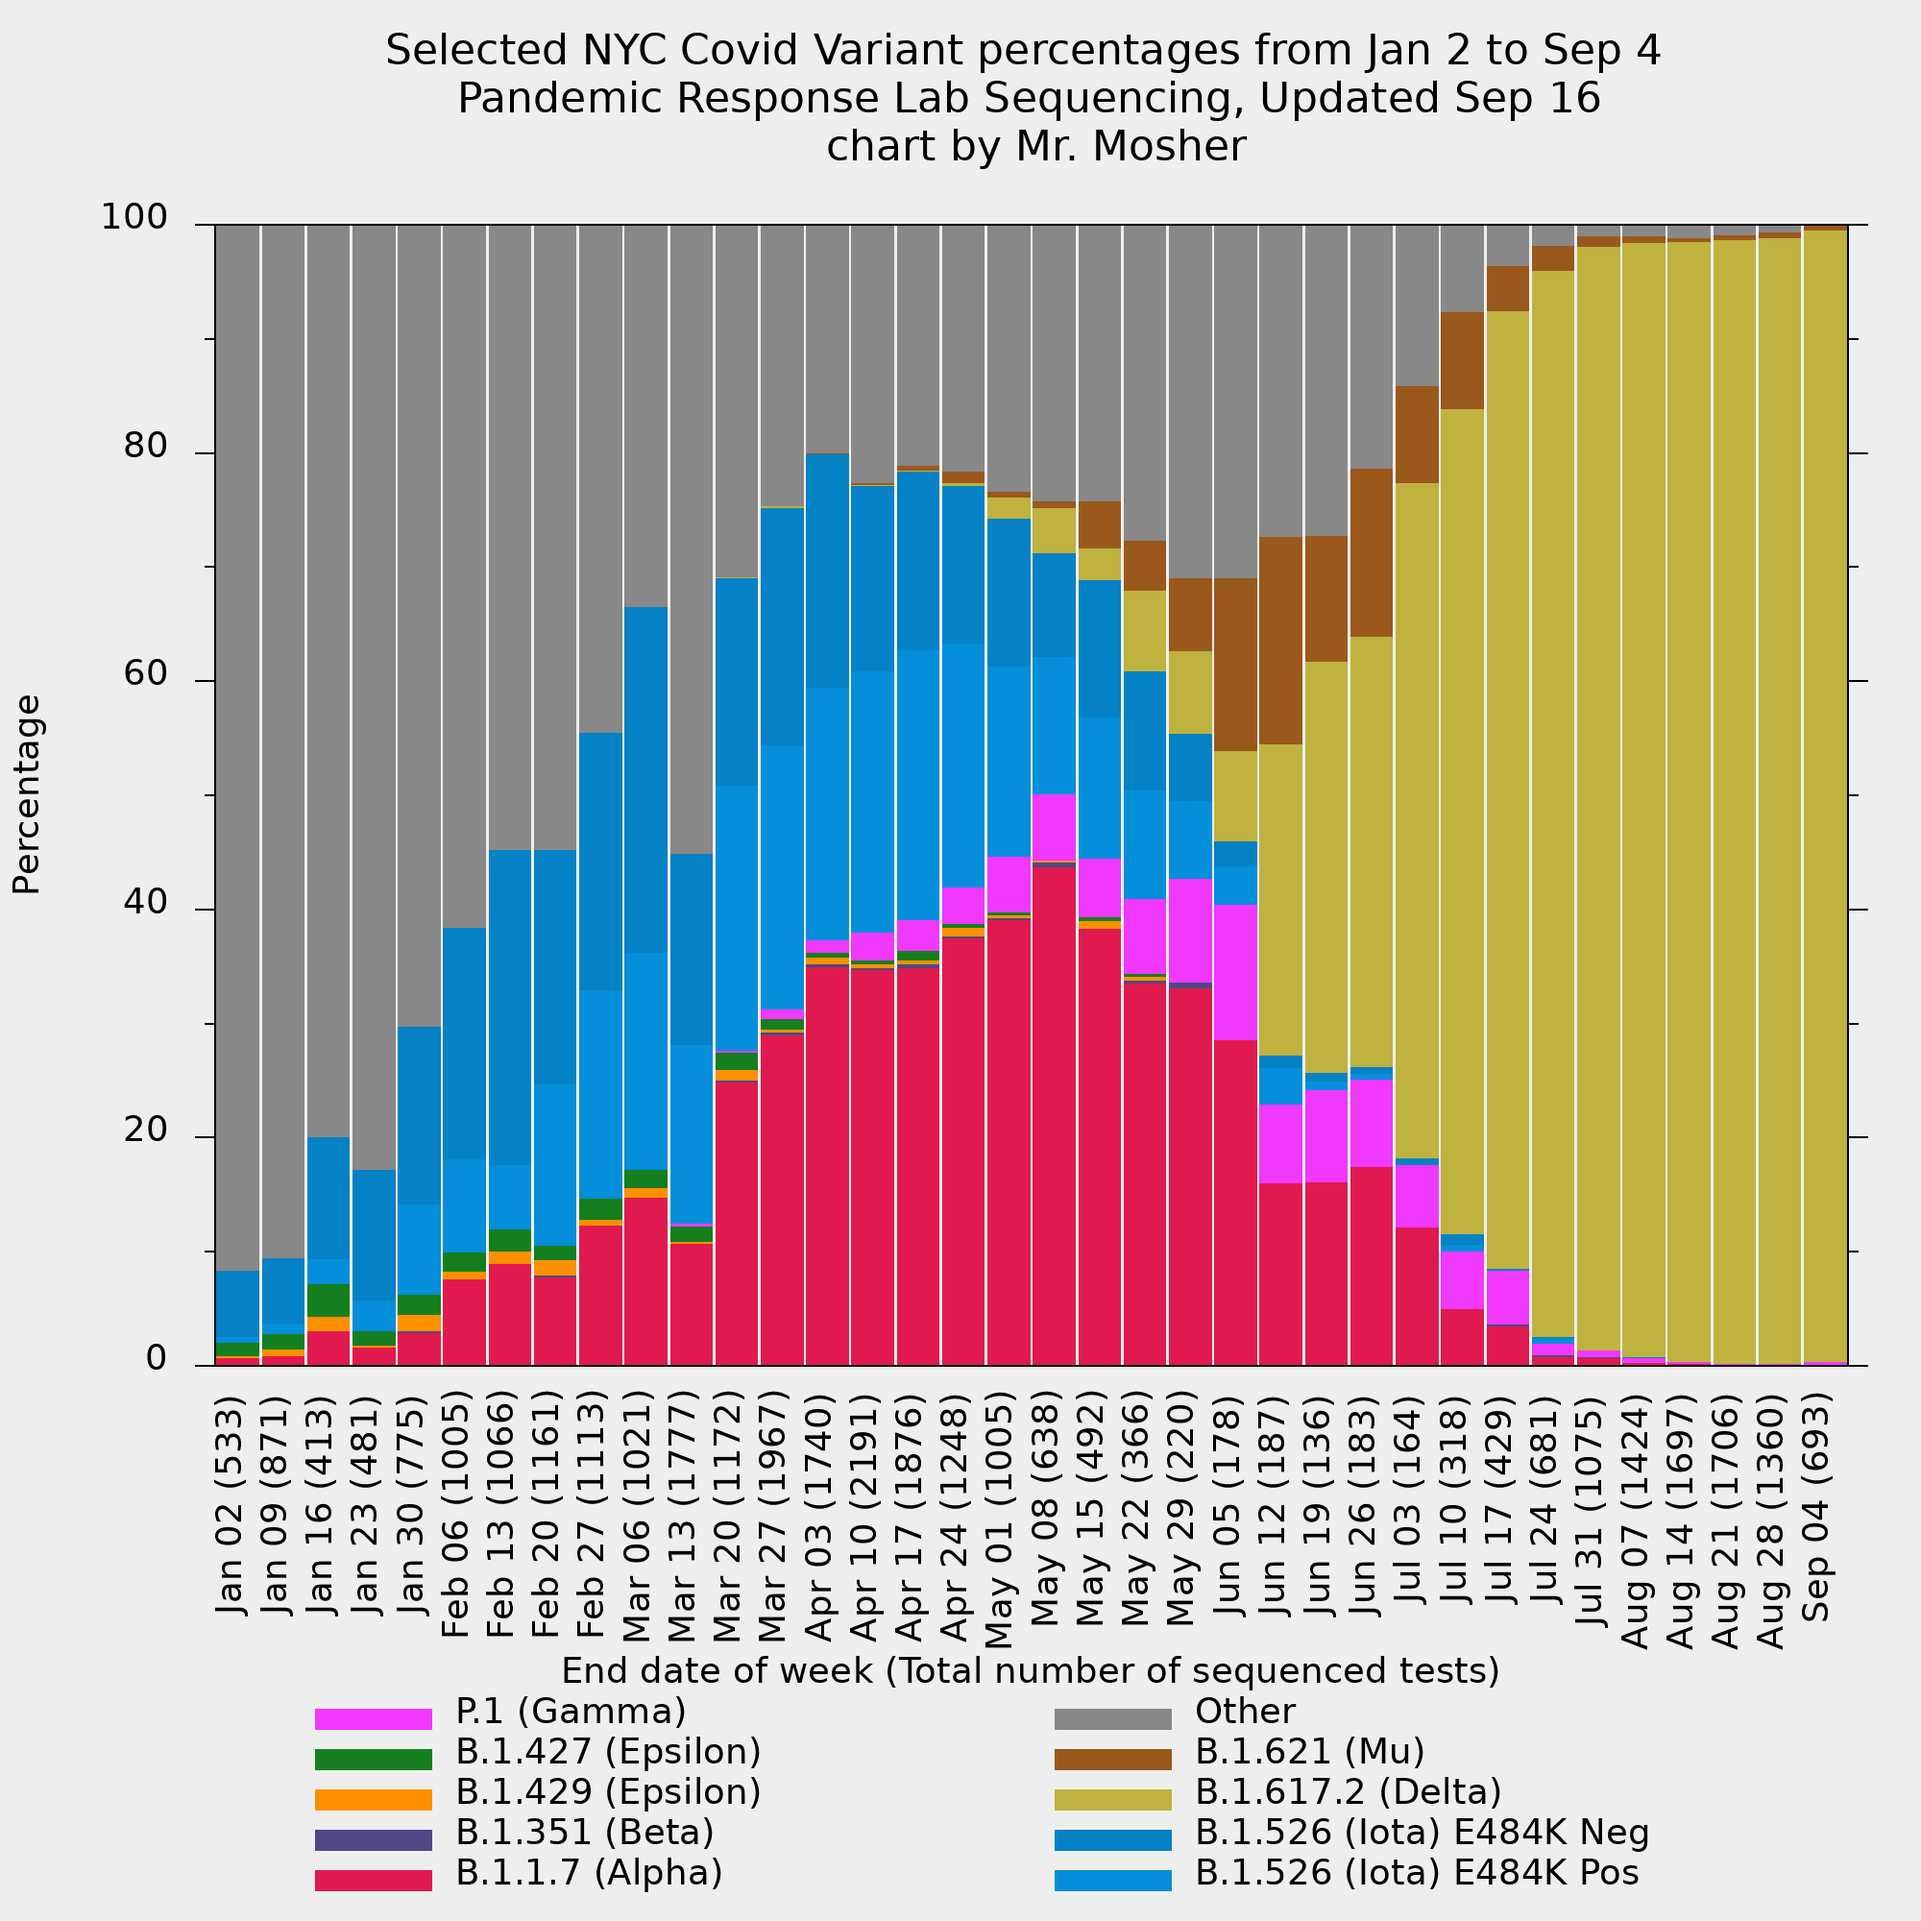
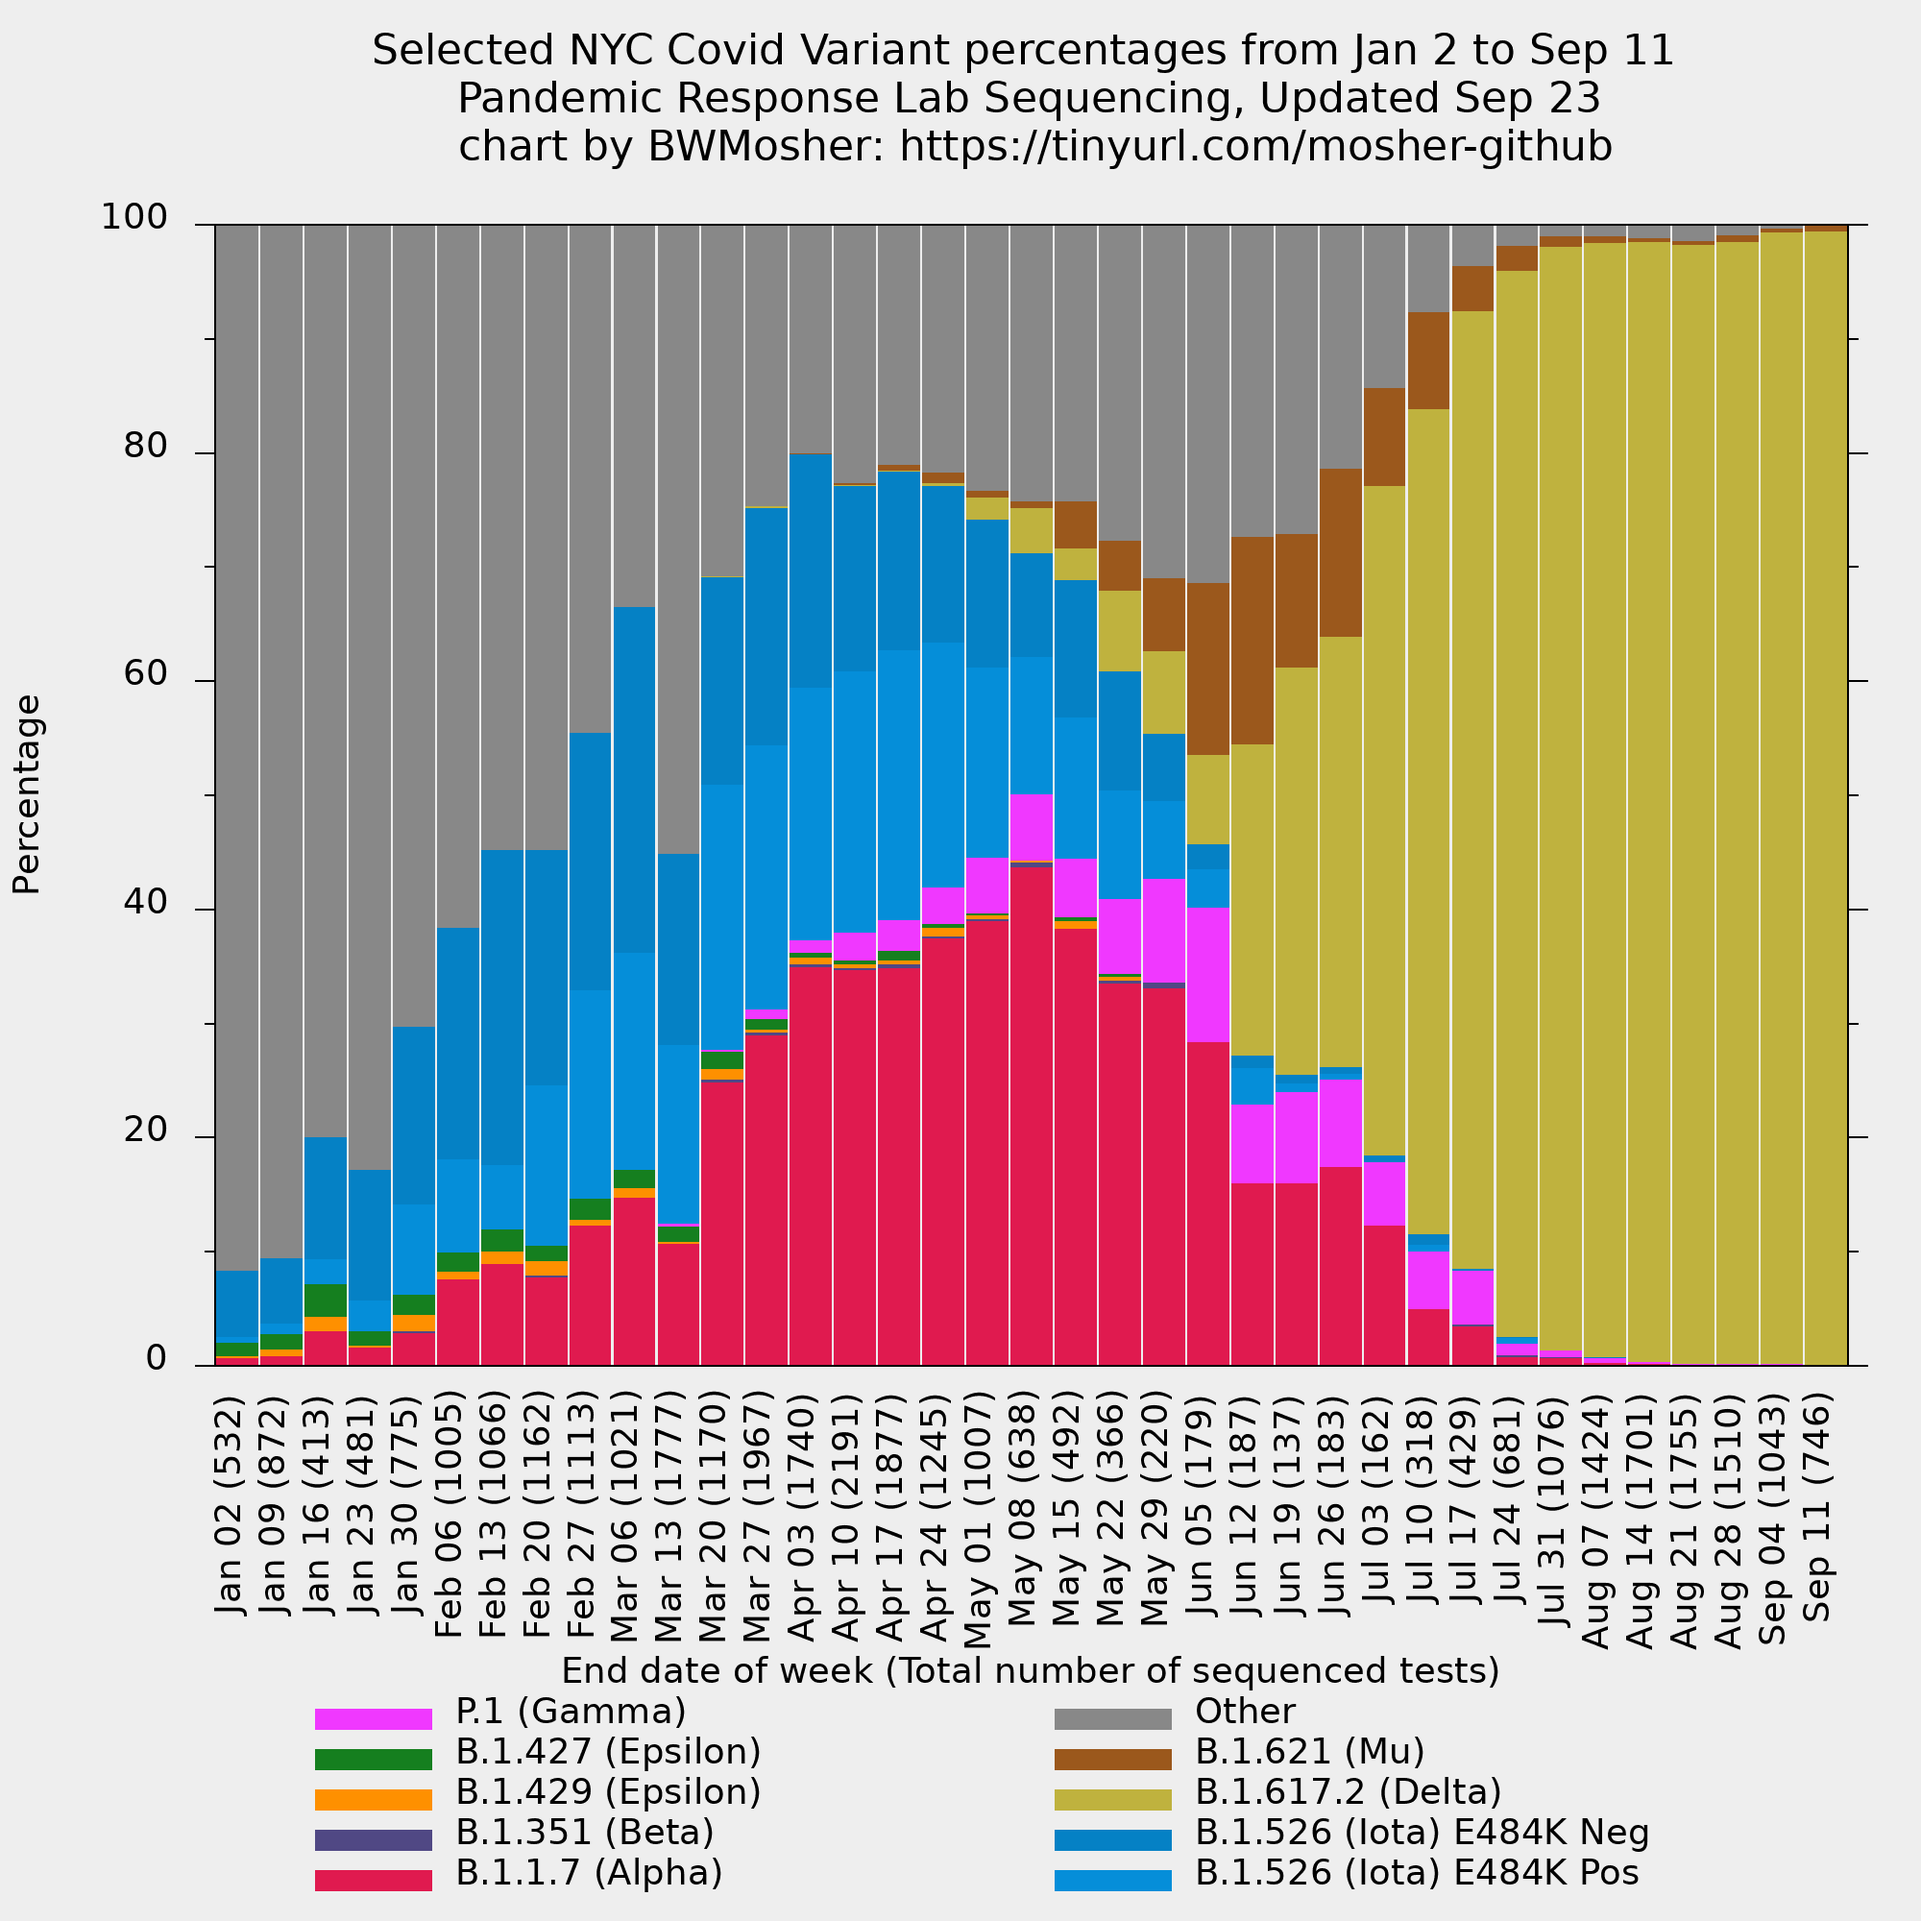
updated for 9/23

Changed region(s): [[0.124, 0.124, 0.961, 0.868], [0.186, 0.0, 0.868, 0.093]]

diff --git a/variants/visualization/README.md b/variants/visualization/README.md
@@ -4,44 +4,43 @@
 
 - There's a human-readable data file called `../variant-epi-data-readable.csv`
 	- It has the dates and total count sequenced (from `../cases-sequenced.csv`)
-	- I made the dates given use month abbreviations and I added two rows for the weeks that are yet to happen.
 - This folder called `visualization/` contains my files
 	- `visualization/all-weeks-plotted.p` plots all strains given in `../variant-epi-data-readable.csv`
 		- This is gnuplot code. [How to install gnuplot](https://www.google.com/search?q=gnuplot+installation+directions).
 		- It plots the strains in a stacked histogram.
 		- `visualization/all-weeks-plotted.png` is the resulting image.
 		- Download it to view it or scroll down.
-	- `../visualization/four-weeks-plotted.p` makes a graph that highlights the four last weeks of data that the city is just lumping together on their public display.
-	- `visualization/ignored-strains.p` is a graph that uses the data before they eliminated strains that are not very prevalent.
-		- This graph will not be updated because there is no data to update it with.
-		- Note the top of the graph reaches 10% and this is not the same as other graphs you might see from me.
-- The folder below, `visualization/spoofs` contains my simulations of what the
-  city display would look like if it were using a one week window instead of
-  a four week window. **I haven't been updating this.**
+	<!-- - `../visualization/four-weeks-plotted.p` makes a graph that highlights the four last weeks of data that the city is just lumping together on their public display. -->
+	<!-- - `visualization/ignored-strains.p` is a graph that uses the data before they eliminated strains that are not very prevalent. -->
+	<!-- 	- This graph will not be updated because there is no data to update it with. -->
+	<!-- 	- Note the top of the graph reaches 10% and this is not the same as other graphs you might see from me. -->
+<!-- - The folder below, `visualization/spoofs` contains my simulations of what the -->
+  <!-- city display would look like if it were using a one week window instead of -->
+  <!-- a four week window. **I haven't been updating this.** -->
 
-## Images (updated 2021-07-30)
+## Images (updated 2021-09-26)
 
-### The all strains graph from January 2nd to Today
+### The all strains graph from January 2nd to September 11th
 
 `all-weeks-plotted.png`
 
 ![all-weeks-plotted.png](all-weeks-plotted.png)
 
-### The all strains graph animated for the last seven weeks, using percentage.
-Note: For the last few weeks, I have been calculating the percentages to several
-decimal points of precision that the city has been rounding off.
+<!-- ### The all strains graph animated for the last seven weeks, using percentage. -->
+<!-- Note: For the last few weeks, I have been calculating the percentages to several -->
+<!-- decimal points of precision that the city has been rounding off. -->
 
-![animation.gif](history/2021-07-29-gif/2021-07-29.gif)
+<!-- ![animation.gif](history/2021-07-29-gif/2021-07-29.gif) -->
 
-### The all strains graph animated for the last seven weeks, using counts.
+<!-- ### The all strains graph animated for the last seven weeks, using counts. -->
 
-![animation.gif](history/raw/2021-07-29/2021-07-29.gif)
+<!-- ![animation.gif](history/raw/2021-07-29/2021-07-29.gif) -->
 
-### The last four weeks graph
+<!-- ### The last four weeks graph -->
 
-`four-weeks-plotted.png`
+<!-- `four-weeks-plotted.png` -->
 
-![four-weeks-plotted.png](four-weeks-plotted.png)
+<!-- ![four-weeks-plotted.png](four-weeks-plotted.png) -->
 
 <!-- ### The selected variants from only the last week -->
 
